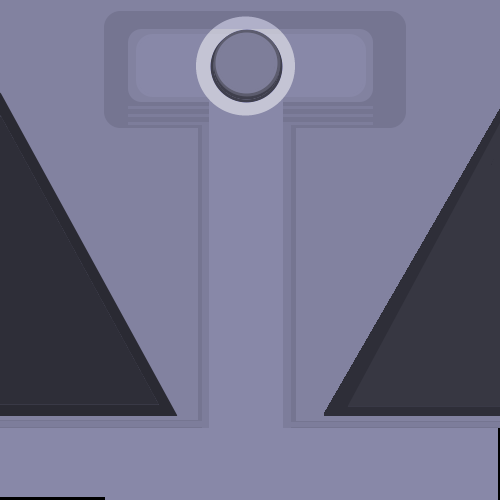
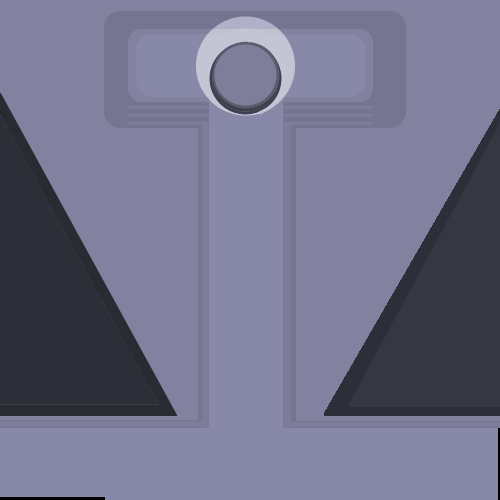
Added message class for rendering ttf objects

Changed region(s): [[0.42, 0.06, 0.57, 0.24]]

diff --git a/Game.cpp b/Game.cpp
@@ -6,6 +6,11 @@
 #include "Game.hpp"
 #include "Player.hpp"
 #include "Level.hpp"
+#include "Message.hpp"
+
+
+
+// TODO: ADD MESSAGE CLASS
 
 bool swordcollected = false;
 int Level::LevelIDCounter = 0;
@@ -21,8 +26,10 @@ void Game::HandleEvents(SDL_Event& e, bool& running, SDL_Renderer* renderer) {
     }
 }
 
+// TODO: convert all ttf messages to message class objects directly
 void Game::PauseMenu(SDL_Renderer* renderer, bool& running) {
     int mouseX, mouseY;
+    Message msg1("Hello World!", 100, 100, 200, 100); // x, y, w, h
     // load font
     TTF_Font* font = TTF_OpenFont("Fonts/Vipnagorgialla Rg.otf", 24);
     if (!font) {
@@ -47,7 +54,6 @@ void Game::PauseMenu(SDL_Renderer* renderer, bool& running) {
     SDL_Surface* textSurface2 = TTF_RenderText_Solid(font, "Save", textColour); // font, text, colour
     SDL_Surface* textSurface3 = TTF_RenderText_Solid(font, "Exit", textColour); // font, text, colour
     
-
     if (textSurface) {
         textTexture = SDL_CreateTextureFromSurface(renderer, textSurface);
         SDL_FreeSurface(textSurface);  
@@ -75,7 +81,6 @@ void Game::PauseMenu(SDL_Renderer* renderer, bool& running) {
         return;
     }
     
-
     SDL_Rect PauseText = { 140, 220, 200, 50 };  // x, y, width, height
     SDL_Rect SaveText = { 10, 0, 100, 50 };
     SDL_Rect ExitText = { 390, 0, 100, 50 };
@@ -216,7 +221,7 @@ void Game::CheckPlayerStatus(int& LevelID, bool& running) {
             // if object can be collected and is within the specified range
             if (objectcollectible &&
                 ((PlayerY + PlayerHeight - 20 >= ObjectY + 30) &&
-                    (PlayerY + PlayerHeight - 20 <= ObjectY + 60)) &&
+                    (PlayerY + PlayerHeight - 20 <= ObjectY + 70)) &&
                 PlayerX + 10 >= ObjectX &&
                 PlayerX <= ObjectX + 40) {
 
@@ -231,6 +236,9 @@ void Game::CheckPlayerStatus(int& LevelID, bool& running) {
             // if false, then do not remove the object
             return false;
         }), objects.end());
+
+
+    
 
     if (Players[0]->GetHP() <= 0) {
         running = false;
@@ -301,7 +309,7 @@ void Game::Level4(int& LevelID) {
         std::cerr << "Couldn't create Level three!" << std::endl;
         return;
     }
-    if (!Levels[LevelID]->MakeGameObject(170, 50, 150,
+    if (!Levels[LevelID]->MakeGameObject(170, 10, 150,
         150, false, false, true, false)) { // cancollide, candamage, cancollect, visible
         std::cerr << "Couldn't create Game Object!" << std::endl;
         return;

diff --git a/Message.hpp b/Message.hpp
@@ -1,0 +1,78 @@
+#ifndef MESSAGE
+#define MESSAGE
+#include <iostream>
+#include <SDL_ttf.h>
+#include <SDL.h>
+
+class Message {
+private:
+	std::string MSGBOX = "";
+	Uint8 R = 255, G = 0, B = 0;
+	int X, Y, W, H;
+	SDL_Texture* textTexture = nullptr;
+	SDL_Surface* surface = {};
+	SDL_Color textColour = {R, G, B};
+	SDL_Rect rectangle = {};
+	TTF_Font* font = nullptr;
+public:
+
+	Message(std::string message, int x, int y, int w, int h) : MSGBOX(message),
+	X(x), Y(y), W(w), H(h) {
+		font = TTF_OpenFont("Fonts/Vipnagorgialla Rg.otf", 24);
+		if (!font) {
+			std::cerr << "Font cannot be initialised!" << std::endl;
+			return;
+		}
+	} 
+
+	~Message() {
+		if (textTexture) {
+			SDL_DestroyTexture(textTexture);
+		}
+		if (font) {
+			TTF_CloseFont(font);
+		}
+		if (surface) {
+			SDL_FreeSurface(surface);
+		}
+	}
+
+	void SetColour(Uint8 r, Uint8 g, Uint8 b) {
+		this->R = r;
+		this->G = g;
+		this->B = b;
+		textColour = { R, G, B };
+	}
+
+	void SetPosition(int x, int y, int w, int h) {
+		this->X = x;
+		this->Y = y;
+		this->W = w;
+		this->H = h;
+	}
+
+	void RenderMessage(SDL_Renderer* renderer) {
+		if (!font) {
+			std::cerr << "Unable to initialise font!" << std::endl;
+			return;
+		}
+		surface = TTF_RenderText_Solid(font, MSGBOX.c_str(), textColour);
+
+		if (surface) {
+			textTexture = SDL_CreateTextureFromSurface(renderer, surface);
+			SDL_FreeSurface(surface);
+		}
+		else {
+			std::cerr << "Text render error: " << TTF_GetError() << std::endl;
+			return;
+		}
+
+		rectangle = { X, Y, W, H }; // rectangle for text 
+
+
+		SDL_SetRenderDrawColor(renderer, R, G, B, 255);  // r, g, b, opaqueness
+		SDL_RenderCopy(renderer, textTexture, nullptr, &rectangle);
+	}
+};
+
+#endif

diff --git a/Game.hpp b/Game.hpp
@@ -7,11 +7,13 @@
 #include "Player.hpp"
 #include "Level.hpp"
 #include "GameObject.hpp"
+#include "Message.hpp"
 
 class Game {
 private:
 	std::vector<std::shared_ptr<Player>> Players;
 	std::vector<std::shared_ptr<Level>> Levels;
+	std::vector <std::shared_ptr<Message>> Messages;
 public:
 
 	Game() {}
